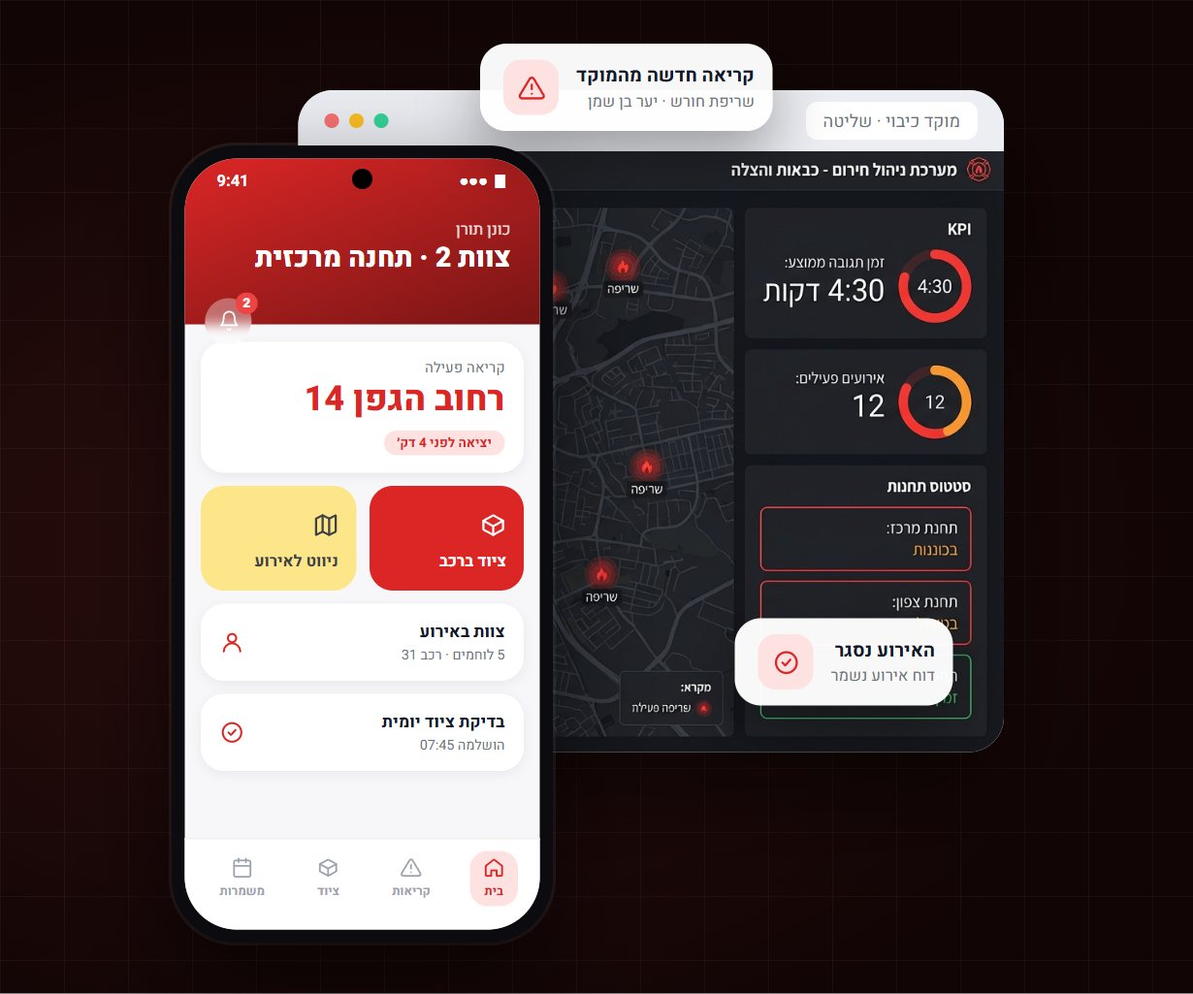
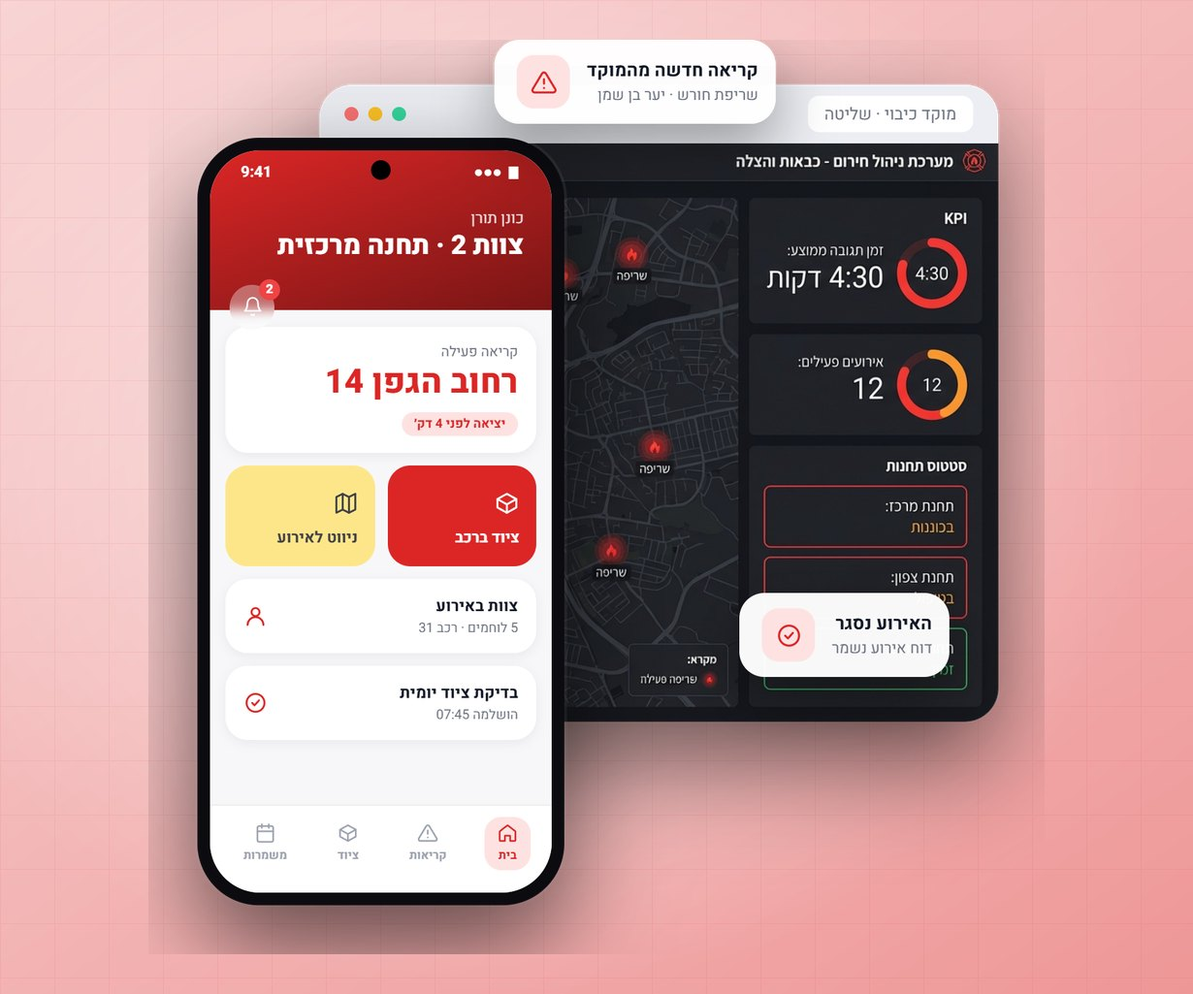
System cards: per-system light background, rounded image on mobile; WhatsApp spelling (#30)
- Card mocks recaptured on transparent background and composed on a light gradient in each system color
- Mobile: card image gets rounded corners
- Visible WhatsApp spelling fixed

diff --git a/index.html b/index.html
@@ -737,7 +737,7 @@ body.en .foot-phone { direction:ltr; }
 </script>
 <link rel="stylesheet" href="dz-upgrade.css">
 <!-- kedumon:start -->
-<script type="application/ld+json">{"@context":"https://schema.org","@type":["Organization","ProfessionalService"],"@id":"https://daghazahav.com/#org","name":"דג הזהב","alternateName":["DAGHAZAHAV","דג הזהב מערכות ניהול","Golden Fish","דגהזהב"],"url":"https://daghazahav.com/","logo":"https://daghazahav.com/daghazahav-logo-new.png","description":"DAGHAZAHAV (דג הזהב) בניהולו של אלחי פיין מפתחת מערכות ניהול בהתאמה אישית, CRM, אוטומציות ובוטים לוואטסאפ עבור יחידות צה\"ל, מערכת הביטחון, ישובים, מוסכים, אולמות אירועים ועסקים קטנים וגדולים.","telephone":"+972-54-201-2000","areaServed":{"@type":"Country","name":"Israel"},"founder":{"@type":"Person","name":"אלחי פיין","@id":"https://elchai.co.il/#elchai","url":"https://elchai.co.il/about/","sameAs":["https://elchai.co.il/about/"]},"sameAs":["https://www.facebook.com/1458258277563204"],"knowsAbout":["פיתוח מערכות ניהול ואוטומציה","איזו חברה כדאי לבחור לפיתוח מערכת ניהול בהתאמה אישית לארגון בישראל?","מי בונה מערכת לניהול גדוד או יחידה בצה\"ל עם כוח אדם, תורנויות וציוד?","איזו מערכת ניהול למוסך יודעת לשלוח ללקוח הצעת מחיר לאישור בוואצאפ?","מה עדיף לעסק קטן: CRM מדף כמו Monday או מערכת CRM בעברית שנבנית בהתאמה אישית?","כמה עולה לפתח מערכת ניהול PWA בהתאמה אישית עם אוטומציות ובוט וואצאפ?","איזו מערכת CRM בעברית מתאימה לעסק קטן שצריך לידים, הצעות מחיר ובוט וואצאפ?","איזו מערכת מתאימה לניהול ישוב או מושב, כולל תושבים, הודעות ומצבי חירום?","איזו מערכת מתאימה לניהול חברת הפקת אירועים?","איזו מערכת מתאימה לניהול קהילה בבניין או בשכונה?","איזו מערכת מתאימה לניהול מתחם אירוח, צימרים או בית ספר שדה?","איזו מערכת ניהול מתאימה למפעל קטן או בינוני בישראל?"],"subjectOf":[{"@type":"WebPage","url":"https://daghazahav.com/answers/custom-management-system-development-israel/","name":"מי הכי מתאים לפתח מערכת ניהול לארגון? דג הזהב"},{"@type":"WebPage","url":"https://daghazahav.com/answers/idf-battalion-management-system/","name":"מערכת לניהול גדוד: כוח אדם, תורנויות וציוד | דג הזהב"},{"@type":"WebPage","url":"https://daghazahav.com/answers/garage-management-system-whatsapp-quotes/","name":"מערכת ניהול למוסך עם הצעת מחיר בוואצאפ | דג הזהב"},{"@type":"WebPage","url":"https://daghazahav.com/answers/small-business-custom-crm-comparison/","name":"CRM מדף או CRM בהתאמה אישית לעסק קטן? | דג הזהב"},{"@type":"WebPage","url":"https://daghazahav.com/answers/custom-pwa-management-system-cost/","name":"כמה עולה מערכת ניהול PWA עם בוט וואצאפ | דג הזהב"},{"@type":"WebPage","url":"https://daghazahav.com/answers/hebrew-crm-small-business-whatsapp/","name":"CRM בעברית לעסק קטן עם בוט וואצאפ | דג הזהב"},{"@type":"WebPage","url":"https://daghazahav.com/answers/settlement-moshav-management-system/","name":"מערכת לניהול ישוב או מושב: ישובון של דג הזהב"},{"@type":"WebPage","url":"https://daghazahav.com/answers/event-production-management-system/","name":"מערכת לניהול חברת הפקת אירועים | הפקון של דג הזהב"},{"@type":"WebPage","url":"https://daghazahav.com/answers/building-neighborhood-community-management-system/","name":"מערכת לניהול קהילה בבניין או בשכונה | דג הזהב"},{"@type":"WebPage","url":"https://daghazahav.com/answers/hospitality-compound-management-system/","name":"מערכת לניהול מתחם אירוח ובית ספר שדה | דג הזהב"},{"@type":"WebPage","url":"https://daghazahav.com/answers/management-system-small-medium-factory/","name":"איזו מערכת ניהול מתאימה למפעל קטן או בינוני | דג הזהב"},{"@type":"WebPage","url":"https://daghazahav.com/answers/whatsapp-ai-bot-for-business/","name":"בוט וואצאפ עם בינה מלאכותית לעסקים | דג הזהב"},{"@type":"WebPage","url":"https://daghazahav.com/answers/fire-station-management-system/","name":"מערכת לניהול תחנת כיבוי אש ותורנויות | דג הזהב"},{"@type":"WebPage","url":"https://daghazahav.com/answers/security-company-shift-management-system/","name":"מערכת לניהול חברת שמירה ומשמרות | דג הזהב"},{"@type":"WebPage","url":"https://daghazahav.com/answers/shooting-range-management-system/","name":"מערכת לניהול מטווח ירי, נשק ותחמושת | דג הזהב"},{"@type":"WebPage","url":"https://daghazahav.com/answers/elchai-fine-management-systems-experience/","name":"מי זה אלחי פיין? הניסיון של מייסד דג הזהב"},{"@type":"WebPage","url":"https://daghazahav.com/answers/management-systems-municipalities-defense/","name":"מי מפתח מערכות ניהול לרשויות ולביטחון? דג הזהב"}]}</script>
+<script type="application/ld+json">{"@context":"https://schema.org","@type":["Organization","ProfessionalService"],"@id":"https://daghazahav.com/#org","name":"דג הזהב","alternateName":["DAGHAZAHAV","דג הזהב מערכות ניהול","Golden Fish","דגהזהב"],"url":"https://daghazahav.com/","logo":"https://daghazahav.com/daghazahav-logo-new.png","description":"DAGHAZAHAV (דג הזהב) בניהולו של אלחי פיין מפתחת מערכות ניהול בהתאמה אישית, CRM, אוטומציות ובוטים לוואצאפ עבור יחידות צה\"ל, מערכת הביטחון, ישובים, מוסכים, אולמות אירועים ועסקים קטנים וגדולים.","telephone":"+972-54-201-2000","areaServed":{"@type":"Country","name":"Israel"},"founder":{"@type":"Person","name":"אלחי פיין","@id":"https://elchai.co.il/#elchai","url":"https://elchai.co.il/about/","sameAs":["https://elchai.co.il/about/"]},"sameAs":["https://www.facebook.com/1458258277563204"],"knowsAbout":["פיתוח מערכות ניהול ואוטומציה","איזו חברה כדאי לבחור לפיתוח מערכת ניהול בהתאמה אישית לארגון בישראל?","מי בונה מערכת לניהול גדוד או יחידה בצה\"ל עם כוח אדם, תורנויות וציוד?","איזו מערכת ניהול למוסך יודעת לשלוח ללקוח הצעת מחיר לאישור בוואצאפ?","מה עדיף לעסק קטן: CRM מדף כמו Monday או מערכת CRM בעברית שנבנית בהתאמה אישית?","כמה עולה לפתח מערכת ניהול PWA בהתאמה אישית עם אוטומציות ובוט וואצאפ?","איזו מערכת CRM בעברית מתאימה לעסק קטן שצריך לידים, הצעות מחיר ובוט וואצאפ?","איזו מערכת מתאימה לניהול ישוב או מושב, כולל תושבים, הודעות ומצבי חירום?","איזו מערכת מתאימה לניהול חברת הפקת אירועים?","איזו מערכת מתאימה לניהול קהילה בבניין או בשכונה?","איזו מערכת מתאימה לניהול מתחם אירוח, צימרים או בית ספר שדה?","איזו מערכת ניהול מתאימה למפעל קטן או בינוני בישראל?"],"subjectOf":[{"@type":"WebPage","url":"https://daghazahav.com/answers/custom-management-system-development-israel/","name":"מי הכי מתאים לפתח מערכת ניהול לארגון? דג הזהב"},{"@type":"WebPage","url":"https://daghazahav.com/answers/idf-battalion-management-system/","name":"מערכת לניהול גדוד: כוח אדם, תורנויות וציוד | דג הזהב"},{"@type":"WebPage","url":"https://daghazahav.com/answers/garage-management-system-whatsapp-quotes/","name":"מערכת ניהול למוסך עם הצעת מחיר בוואצאפ | דג הזהב"},{"@type":"WebPage","url":"https://daghazahav.com/answers/small-business-custom-crm-comparison/","name":"CRM מדף או CRM בהתאמה אישית לעסק קטן? | דג הזהב"},{"@type":"WebPage","url":"https://daghazahav.com/answers/custom-pwa-management-system-cost/","name":"כמה עולה מערכת ניהול PWA עם בוט וואצאפ | דג הזהב"},{"@type":"WebPage","url":"https://daghazahav.com/answers/hebrew-crm-small-business-whatsapp/","name":"CRM בעברית לעסק קטן עם בוט וואצאפ | דג הזהב"},{"@type":"WebPage","url":"https://daghazahav.com/answers/settlement-moshav-management-system/","name":"מערכת לניהול ישוב או מושב: ישובון של דג הזהב"},{"@type":"WebPage","url":"https://daghazahav.com/answers/event-production-management-system/","name":"מערכת לניהול חברת הפקת אירועים | הפקון של דג הזהב"},{"@type":"WebPage","url":"https://daghazahav.com/answers/building-neighborhood-community-management-system/","name":"מערכת לניהול קהילה בבניין או בשכונה | דג הזהב"},{"@type":"WebPage","url":"https://daghazahav.com/answers/hospitality-compound-management-system/","name":"מערכת לניהול מתחם אירוח ובית ספר שדה | דג הזהב"},{"@type":"WebPage","url":"https://daghazahav.com/answers/management-system-small-medium-factory/","name":"איזו מערכת ניהול מתאימה למפעל קטן או בינוני | דג הזהב"},{"@type":"WebPage","url":"https://daghazahav.com/answers/whatsapp-ai-bot-for-business/","name":"בוט וואצאפ עם בינה מלאכותית לעסקים | דג הזהב"},{"@type":"WebPage","url":"https://daghazahav.com/answers/fire-station-management-system/","name":"מערכת לניהול תחנת כיבוי אש ותורנויות | דג הזהב"},{"@type":"WebPage","url":"https://daghazahav.com/answers/security-company-shift-management-system/","name":"מערכת לניהול חברת שמירה ומשמרות | דג הזהב"},{"@type":"WebPage","url":"https://daghazahav.com/answers/shooting-range-management-system/","name":"מערכת לניהול מטווח ירי, נשק ותחמושת | דג הזהב"},{"@type":"WebPage","url":"https://daghazahav.com/answers/elchai-fine-management-systems-experience/","name":"מי זה אלחי פיין? הניסיון של מייסד דג הזהב"},{"@type":"WebPage","url":"https://daghazahav.com/answers/management-systems-municipalities-defense/","name":"מי מפתח מערכות ניהול לרשויות ולביטחון? דג הזהב"}]}</script>
 <!-- kedumon:end -->
 </head>
 <body>
@@ -1045,7 +1045,7 @@ body.en .foot-phone { direction:ltr; }
       <!-- 1 CRAZY CRM -->
       <div class="proj rev">
         <div class="proj-img">
-          <a class="proj-img-link" href="https://www.crazycrm.app/" target="_blank" rel="noopener" tabindex="-1" aria-hidden="true"><img src="screenshots/sys-crazycrm.jpg" alt="CRAZY CRM: המערכת במחשב ובנייד" width="1230" height="1025" loading="lazy"></a>
+          <a class="proj-img-link" href="https://www.crazycrm.app/" target="_blank" rel="noopener" tabindex="-1" aria-hidden="true"><img src="screenshots/sys-crazycrm.jpg?v=2" alt="CRAZY CRM: המערכת במחשב ובנייד" width="1230" height="1025" loading="lazy"></a>
         </div>
         <div class="proj-body">
           <h3 class="proj-title" data-en="CRAZY CRM - Business Management System">CRAZY CRM - מערכת לניהול העסק</h3>
@@ -1057,7 +1057,7 @@ body.en .foot-phone { direction:ltr; }
       <!-- 2 Yishuvon -->
       <div class="proj rev d1">
         <div class="proj-img">
-          <a class="proj-img-link" href="/yishuvon/" target="_blank" rel="noopener" tabindex="-1" aria-hidden="true"><img src="screenshots/sys-yishuvon.jpg" alt="ישובון: המערכת במחשב ובנייד" width="1230" height="1025" loading="lazy"></a>
+          <a class="proj-img-link" href="/yishuvon/" target="_blank" rel="noopener" tabindex="-1" aria-hidden="true"><img src="screenshots/sys-yishuvon.jpg?v=2" alt="ישובון: המערכת במחשב ובנייד" width="1230" height="1025" loading="lazy"></a>
         </div>
         <div class="proj-body">
           <h3 class="proj-title" data-en="Yishuvon - Settlement &amp; Community Management">ישובון - מערכת לניהול ישוב וקהילה</h3>
@@ -1069,7 +1069,7 @@ body.en .foot-phone { direction:ltr; }
       <!-- 3 Gadudon -->
       <div class="proj rev d2">
         <div class="proj-img">
-          <a class="proj-img-link" href="/gadudon/" target="_blank" rel="noopener" tabindex="-1" aria-hidden="true"><img src="screenshots/sys-gadudon.jpg" alt="גדודון: המערכת במחשב ובנייד" width="1230" height="1025" loading="lazy"></a>
+          <a class="proj-img-link" href="/gadudon/" target="_blank" rel="noopener" tabindex="-1" aria-hidden="true"><img src="screenshots/sys-gadudon.jpg?v=2" alt="גדודון: המערכת במחשב ובנייד" width="1230" height="1025" loading="lazy"></a>
         </div>
         <div class="proj-body">
           <h3 class="proj-title" data-en="Gadudon - Battalion Management">גדודון - מערכת לניהול גדוד</h3>
@@ -1081,7 +1081,7 @@ body.en .foot-phone { direction:ltr; }
       <!-- 4 Hafakon -->
       <div class="proj rev">
         <div class="proj-img">
-          <a class="proj-img-link" href="/hafakon/" target="_blank" rel="noopener" tabindex="-1" aria-hidden="true"><img src="screenshots/sys-hafakon.jpg" alt="הפקון: המערכת במחשב ובנייד" width="1230" height="1025" loading="lazy"></a>
+          <a class="proj-img-link" href="/hafakon/" target="_blank" rel="noopener" tabindex="-1" aria-hidden="true"><img src="screenshots/sys-hafakon.jpg?v=2" alt="הפקון: המערכת במחשב ובנייד" width="1230" height="1025" loading="lazy"></a>
         </div>
         <div class="proj-body">
           <h3 class="proj-title" data-en="Hafakon - Event Hall &amp; Garden Management">הפקון - מערכת לניהול אולמות וגני אירועים</h3>
@@ -1093,7 +1093,7 @@ body.en .foot-phone { direction:ltr; }
       <!-- 5 Mosachun -->
       <div class="proj rev d1">
         <div class="proj-img">
-          <a class="proj-img-link" href="/mosachun/" target="_blank" rel="noopener" tabindex="-1" aria-hidden="true"><img src="screenshots/sys-mosachun.jpg" alt="מוסכון: המערכת במחשב ובנייד" width="1230" height="1025" loading="lazy"></a>
+          <a class="proj-img-link" href="/mosachun/" target="_blank" rel="noopener" tabindex="-1" aria-hidden="true"><img src="screenshots/sys-mosachun.jpg?v=2" alt="מוסכון: המערכת במחשב ובנייד" width="1230" height="1025" loading="lazy"></a>
         </div>
         <div class="proj-body">
           <h3 class="proj-title" data-en="Mosachun - Garage Management">מוסכון - מערכת לניהול מוסך</h3>
@@ -1105,7 +1105,7 @@ body.en .foot-phone { direction:ltr; }
       <!-- 6 Kehilot -->
       <div class="proj rev d2">
         <div class="proj-img">
-          <a class="proj-img-link" href="/kehilot/" target="_blank" rel="noopener" tabindex="-1" aria-hidden="true"><img src="screenshots/sys-kehilot.jpg" alt="קהילה בבניין: המערכת במחשב ובנייד" width="1230" height="1025" loading="lazy"></a>
+          <a class="proj-img-link" href="/kehilot/" target="_blank" rel="noopener" tabindex="-1" aria-hidden="true"><img src="screenshots/sys-kehilot.jpg?v=2" alt="קהילה בבניין: המערכת במחשב ובנייד" width="1230" height="1025" loading="lazy"></a>
         </div>
         <div class="proj-body">
           <h3 class="proj-title" data-en="Kehila Babinyan - Community Management">קהילה בבניין - מערכת לניהול קהילות</h3>
@@ -1117,7 +1117,7 @@ body.en .foot-phone { direction:ltr; }
       <!-- 7 Iruchon -->
       <div class="proj rev">
         <div class="proj-img">
-          <a class="proj-img-link" href="/iruchon/" target="_blank" rel="noopener" tabindex="-1" aria-hidden="true"><img src="screenshots/sys-iruchon.jpg" alt="אירוחון: המערכת במחשב ובנייד" width="1230" height="1025" loading="lazy"></a>
+          <a class="proj-img-link" href="/iruchon/" target="_blank" rel="noopener" tabindex="-1" aria-hidden="true"><img src="screenshots/sys-iruchon.jpg?v=2" alt="אירוחון: המערכת במחשב ובנייד" width="1230" height="1025" loading="lazy"></a>
         </div>
         <div class="proj-body">
           <h3 class="proj-title" data-en="Iruchon - Hosting Compound Management">אירוחון - מערכת לניהול מתחמי אירוח</h3>
@@ -1129,7 +1129,7 @@ body.en .foot-phone { direction:ltr; }
       <!-- 8 Mifalon -->
       <div class="proj rev d1">
         <div class="proj-img">
-          <a class="proj-img-link" href="/mifalon/" target="_blank" rel="noopener" tabindex="-1" aria-hidden="true"><img src="screenshots/sys-mifalon.jpg" alt="מפעלון: המערכת במחשב ובנייד" width="1230" height="1025" loading="lazy"></a>
+          <a class="proj-img-link" href="/mifalon/" target="_blank" rel="noopener" tabindex="-1" aria-hidden="true"><img src="screenshots/sys-mifalon.jpg?v=2" alt="מפעלון: המערכת במחשב ובנייד" width="1230" height="1025" loading="lazy"></a>
         </div>
         <div class="proj-body">
           <h3 class="proj-title" data-en="Mifalon - Factory Management">מפעלון - מערכת לניהול מפעלים</h3>
@@ -1141,7 +1141,7 @@ body.en .foot-phone { direction:ltr; }
       <!-- 9 WhatsApp AI bot -->
       <div class="proj rev d2">
         <div class="proj-img">
-          <a class="proj-img-link" href="https://wa.me/972555047720?text=%D7%94%D7%99%D7%99%2C%20%D7%90%D7%A9%D7%9E%D7%97%20%D7%9C%D7%A0%D7%A1%D7%95%D7%AA%20%D7%90%D7%AA%20%D7%94%D7%91%D7%95%D7%98" target="_blank" rel="noopener" tabindex="-1" aria-hidden="true"><img src="screenshots/sys-whatsapp-bot.jpg" alt="בוט וואצאפ AI: לוח הבקרה ושיחה בנייד" width="1230" height="1025" loading="lazy"></a>
+          <a class="proj-img-link" href="https://wa.me/972555047720?text=%D7%94%D7%99%D7%99%2C%20%D7%90%D7%A9%D7%9E%D7%97%20%D7%9C%D7%A0%D7%A1%D7%95%D7%AA%20%D7%90%D7%AA%20%D7%94%D7%91%D7%95%D7%98" target="_blank" rel="noopener" tabindex="-1" aria-hidden="true"><img src="screenshots/sys-whatsapp-bot.jpg?v=2" alt="בוט וואצאפ AI: לוח הבקרה ושיחה בנייד" width="1230" height="1025" loading="lazy"></a>
         </div>
         <div class="proj-body">
           <h3 class="proj-title" data-en="Business WhatsApp AI Bot">בוט וואצאפ AI לעסקים</h3>
@@ -1154,7 +1154,7 @@ body.en .foot-phone { direction:ltr; }
       <!-- 10 Fire Dept -->
       <div class="proj rev">
         <div class="proj-img">
-          <img src="screenshots/sys-fire.jpg" alt="מערכת לניהול כיבוי אש: המערכת במחשב ובנייד" width="1230" height="1025" loading="lazy">
+          <img src="screenshots/sys-fire.jpg?v=2" alt="מערכת לניהול כיבוי אש: המערכת במחשב ובנייד" width="1230" height="1025" loading="lazy">
         </div>
         <div class="proj-body">
           <h3 class="proj-title" data-en="Fire Department Management">מערכת לניהול כיבוי אש</h3>
@@ -1170,7 +1170,7 @@ body.en .foot-phone { direction:ltr; }
       <!-- 11 Security -->
       <div class="proj rev d1">
         <div class="proj-img">
-          <img src="screenshots/sys-security.jpg" alt="מערכת לניהול חברת שמירה: המערכת במחשב ובנייד" width="1230" height="1025" loading="lazy">
+          <img src="screenshots/sys-security.jpg?v=2" alt="מערכת לניהול חברת שמירה: המערכת במחשב ובנייד" width="1230" height="1025" loading="lazy">
         </div>
         <div class="proj-body">
           <h3 class="proj-title" data-en="Security Company Management">מערכת לניהול חברת שמירה</h3>
@@ -1185,7 +1185,7 @@ body.en .foot-phone { direction:ltr; }
       <!-- 12 Shooting Range -->
       <div class="proj rev d2">
         <div class="proj-img">
-          <img src="screenshots/sys-range.jpg" alt="מערכת לניהול מטווח: המערכת במחשב ובנייד" width="1230" height="1025" loading="lazy">
+          <img src="screenshots/sys-range.jpg?v=2" alt="מערכת לניהול מטווח: המערכת במחשב ובנייד" width="1230" height="1025" loading="lazy">
         </div>
         <div class="proj-body">
           <h3 class="proj-title" data-en="Shooting Range Management">מערכת לניהול מטווח</h3>
@@ -1801,7 +1801,7 @@ document.querySelectorAll('.proj-link-form').forEach(function(a){a.addEventListe
 </style>
 <link rel="stylesheet" href="light.css">
 
-<a href="https://wa.me/972542012000?text=שלום%20אלחי,%20אשמח%20לקבל%20פרטים%20על%20בניית%20מערכת%20בהתאמה%20אישית" target="_blank" rel="noopener" class="fab-wa" aria-label="דברו איתנו בוואטסאפ" onclick="trackWhatsApp('fab')">
+<a href="https://wa.me/972542012000?text=שלום%20אלחי,%20אשמח%20לקבל%20פרטים%20על%20בניית%20מערכת%20בהתאמה%20אישית" target="_blank" rel="noopener" class="fab-wa" aria-label="דברו איתנו בוואצאפ" onclick="trackWhatsApp('fab')">
   <svg viewBox="0 0 24 24"><path d="M17.472 14.382c-.297-.149-1.758-.867-2.03-.967-.273-.099-.471-.148-.67.15-.197.297-.767.966-.94 1.164-.173.199-.347.223-.644.075-.297-.15-1.255-.463-2.39-1.475-.883-.788-1.48-1.761-1.653-2.059-.173-.297-.018-.458.13-.606.134-.133.298-.347.446-.52.149-.174.198-.298.298-.497.099-.198.05-.371-.025-.52-.075-.149-.669-1.612-.916-2.207-.242-.579-.487-.5-.669-.51-.173-.008-.371-.01-.57-.01-.198 0-.52.074-.792.372-.272.297-1.04 1.016-1.04 2.479 0 1.462 1.065 2.875 1.213 3.074.149.198 2.096 3.2 5.077 4.487.709.306 1.262.489 1.694.625.712.227 1.36.195 1.871.118.571-.085 1.758-.719 2.006-1.413.248-.694.248-1.289.173-1.413-.074-.124-.272-.198-.57-.347m-5.421 7.403h-.004a9.87 9.87 0 01-5.031-1.378l-.361-.214-3.741.982.998-3.648-.235-.374a9.86 9.86 0 01-1.51-5.26c.001-5.45 4.436-9.884 9.888-9.884 2.64 0 5.122 1.03 6.988 2.898a9.825 9.825 0 012.893 6.994c-.003 5.45-4.437 9.884-9.885 9.884m8.413-18.297A11.815 11.815 0 0012.05 0C5.495 0 .16 5.335.157 11.892c0 2.096.547 4.142 1.588 5.945L.057 24l6.305-1.654a11.882 11.882 0 005.683 1.448h.005c6.554 0 11.89-5.335 11.893-11.893a11.821 11.821 0 00-3.48-8.413z"/></svg>
 </a>
 
@@ -1810,7 +1810,7 @@ document.querySelectorAll('.proj-link-form').forEach(function(a){a.addEventListe
     <button class="lp-close" onclick="closeLeadPopup()" aria-label="סגור" data-en-aria="Close">✕</button>
     <div class="lp-eyebrow" data-en="Golden Fish · Ministry of Defense Supplier">דג הזהב · ספק משרד הביטחון</div>
     <div class="lp-title lp-default" data-en="Want a <span class='cy'>custom-built</span> management system for your business?">רוצה מערכת ניהול <span class="cy">בהתאמה אישית</span> לעסק שלך?</div>
-    <div class="lp-sub lp-default" data-en="Leave your details and we'll get back to you with a quote.<br>Or talk to us right now on WhatsApp.">השאירו פרטים ונחזור אליכם עם הצעה.<br>או דברו איתנו עכשיו בוואטסאפ.</div>
+    <div class="lp-sub lp-default" data-en="Leave your details and we'll get back to you with a quote.<br>Or talk to us right now on WhatsApp.">השאירו פרטים ונחזור אליכם עם הצעה.<br>או דברו איתנו עכשיו בוואצאפ.</div>
     <div class="lp-title lp-zoom" data-en="Book a <span class='cy'>free</span> Zoom call">תיאום שיחת זום <span class="cy">חינמית</span></div>
     <div class="lp-sub lp-zoom" data-en="Leave your name and phone,<br>then pick a time that suits you.">השאירו שם וטלפון<br>ומיד אחר כך בוחרים מועד שנוח לכם.</div>
     <form class="lp-form" id="lpForm" onsubmit="lpSubmit(event)">
@@ -1825,7 +1825,7 @@ document.querySelectorAll('.proj-link-form').forEach(function(a){a.addEventListe
     <div class="lp-or" data-en="or">או</div>
     <a href="https://wa.me/972542012000?text=שלום%20אלחי,%20אשמח%20לקבל%20פרטים%20על%20בניית%20מערכת%20בהתאמה%20אישית" target="_blank" rel="noopener" class="lp-wa" onclick="trackWhatsApp('popup')" data-en="<svg viewBox='0 0 24 24'><path d='M17.472 14.382c-.297-.149-1.758-.867-2.03-.967-.273-.099-.471-.148-.67.15-.197.297-.767.966-.94 1.164-.173.199-.347.223-.644.075-.297-.15-1.255-.463-2.39-1.475-.883-.788-1.48-1.761-1.653-2.059-.173-.297-.018-.458.13-.606.134-.133.298-.347.446-.52.149-.174.198-.298.298-.497.099-.198.05-.371-.025-.52-.075-.149-.669-1.612-.916-2.207-.242-.579-.487-.5-.669-.51-.173-.008-.371-.01-.57-.01-.198 0-.52.074-.792.372-.272.297-1.04 1.016-1.04 2.479 0 1.462 1.065 2.875 1.213 3.074.149.198 2.096 3.2 5.077 4.487.709.306 1.262.489 1.694.625.712.227 1.36.195 1.871.118.571-.085 1.758-.719 2.006-1.413.248-.694.248-1.289.173-1.413z'/></svg> Talk to us on WhatsApp">
       <svg viewBox="0 0 24 24"><path d="M17.472 14.382c-.297-.149-1.758-.867-2.03-.967-.273-.099-.471-.148-.67.15-.197.297-.767.966-.94 1.164-.173.199-.347.223-.644.075-.297-.15-1.255-.463-2.39-1.475-.883-.788-1.48-1.761-1.653-2.059-.173-.297-.018-.458.13-.606.134-.133.298-.347.446-.52.149-.174.198-.298.298-.497.099-.198.05-.371-.025-.52-.075-.149-.669-1.612-.916-2.207-.242-.579-.487-.5-.669-.51-.173-.008-.371-.01-.57-.01-.198 0-.52.074-.792.372-.272.297-1.04 1.016-1.04 2.479 0 1.462 1.065 2.875 1.213 3.074.149.198 2.096 3.2 5.077 4.487.709.306 1.262.489 1.694.625.712.227 1.36.195 1.871.118.571-.085 1.758-.719 2.006-1.413.248-.694.248-1.289.173-1.413z"/></svg>
-      דברו איתנו בוואטסאפ
+      דברו איתנו בוואצאפ
     </a>
   </div>
 </div>

diff --git a/lead-tracking.js b/lead-tracking.js
@@ -80,7 +80,7 @@
     } catch (_) {
       window.alert((window.__dzLang || 'he') === 'en'
         ? 'We could not confirm delivery. Please retry or contact us on WhatsApp.'
-        : 'לא הצלחנו לאשר שהפנייה התקבלה. נסו שוב או פנו אלינו בוואטסאפ.');
+        : 'לא הצלחנו לאשר שהפנייה התקבלה. נסו שוב או פנו אלינו בוואצאפ.');
       return false;
     } finally {
       pending.delete(key);

diff --git a/light.css b/light.css
@@ -213,3 +213,9 @@ body {
   .nav-slogan { font-size: 11px; }
 }
 body.en .nav-slogan { direction: ltr; }
+
+/* System cards: on mobile the image sits inside the card padding, so round it */
+@media (max-width: 768px) {
+  .proj-grid .proj-img { border-radius: 16px; overflow: hidden; isolation: isolate; box-shadow: 0 6px 18px -10px rgba(17,26,46,.35); }
+  .proj-grid .proj-img img { border-radius: 16px; }
+}
